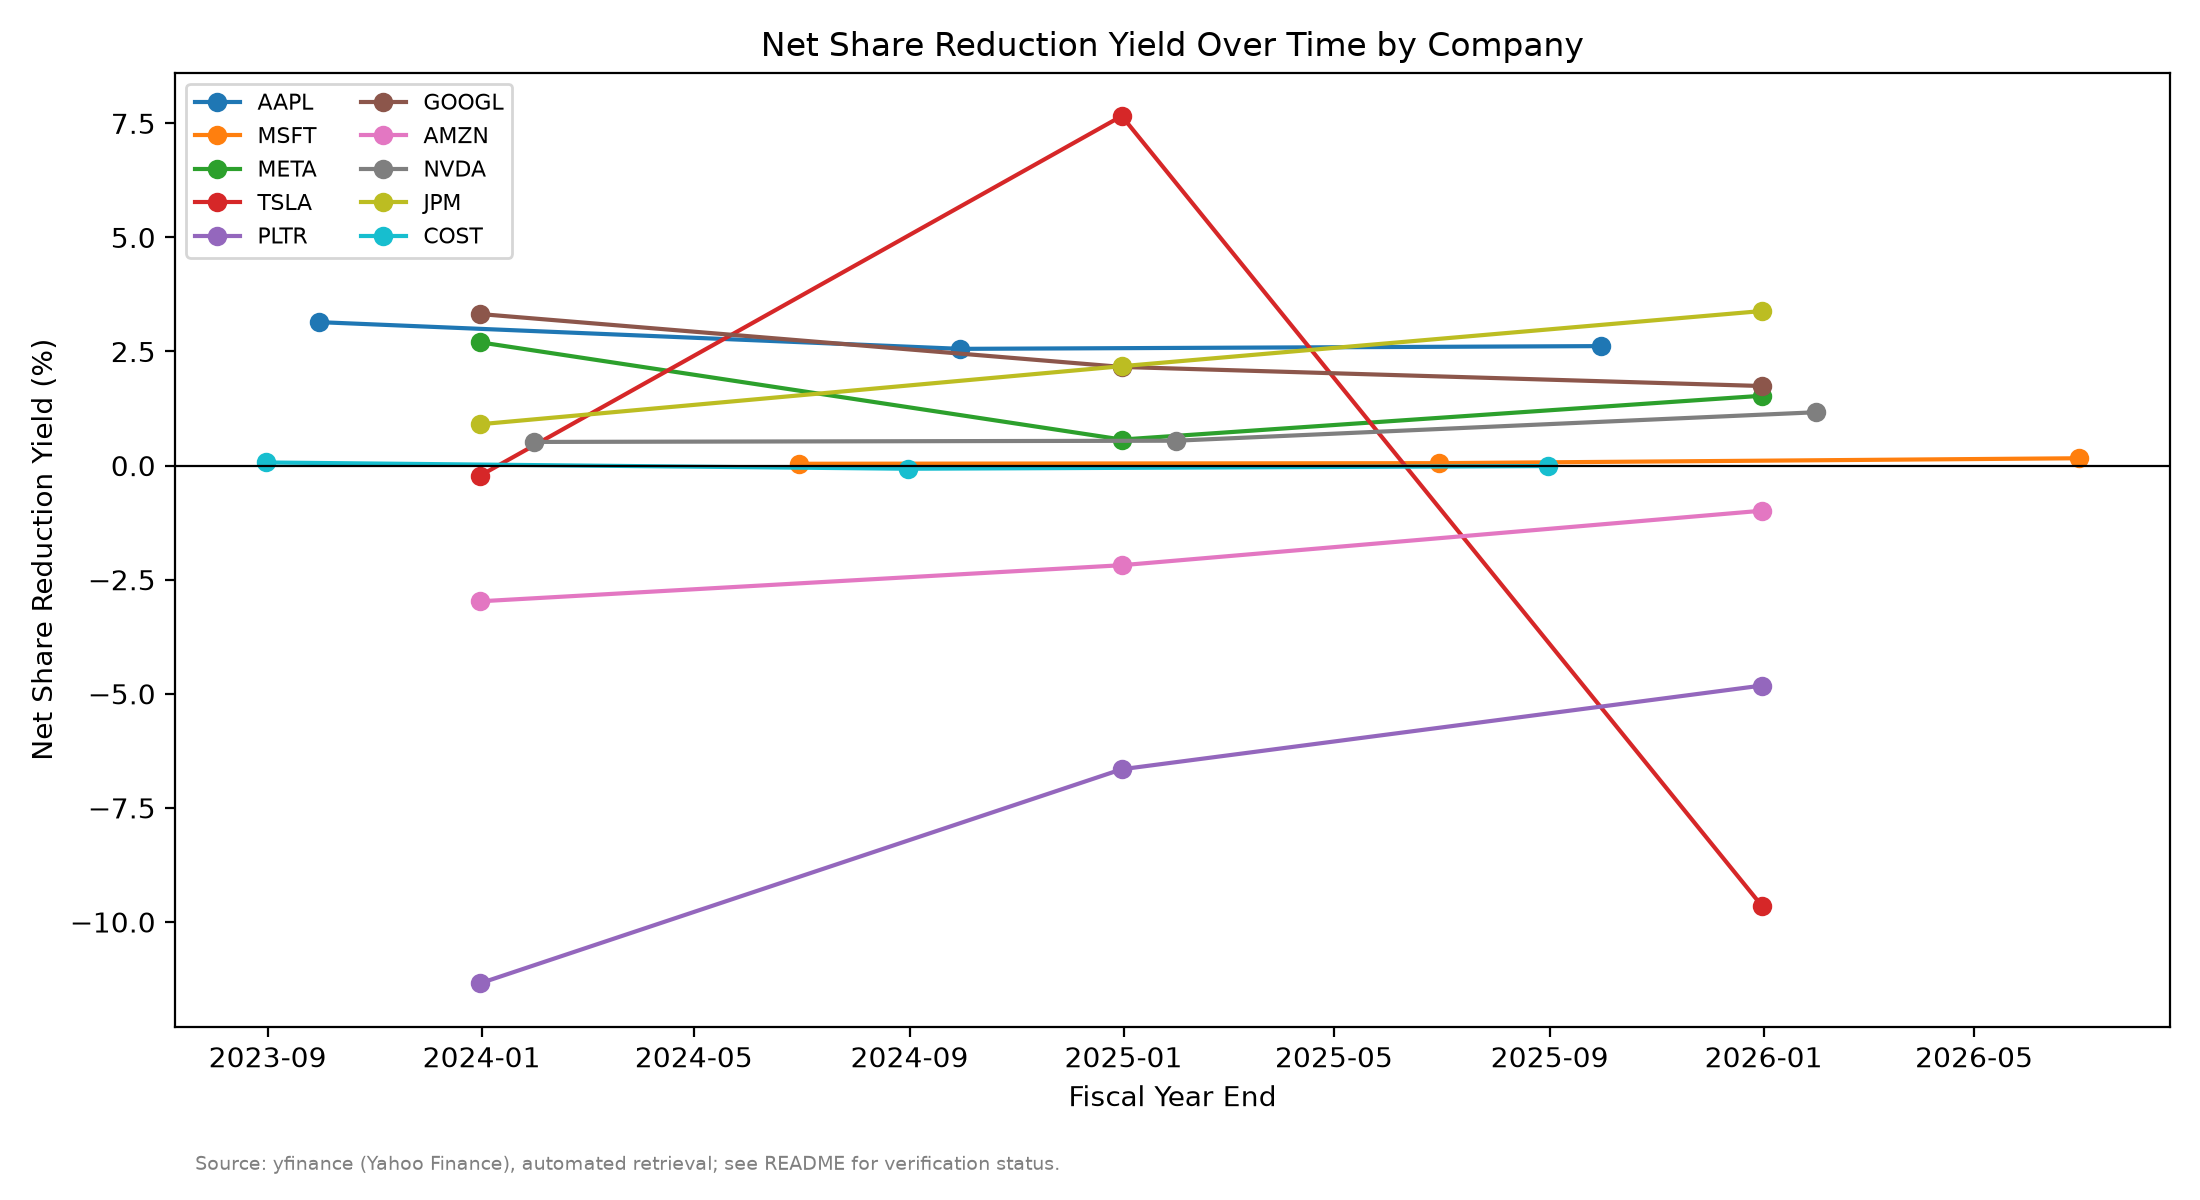
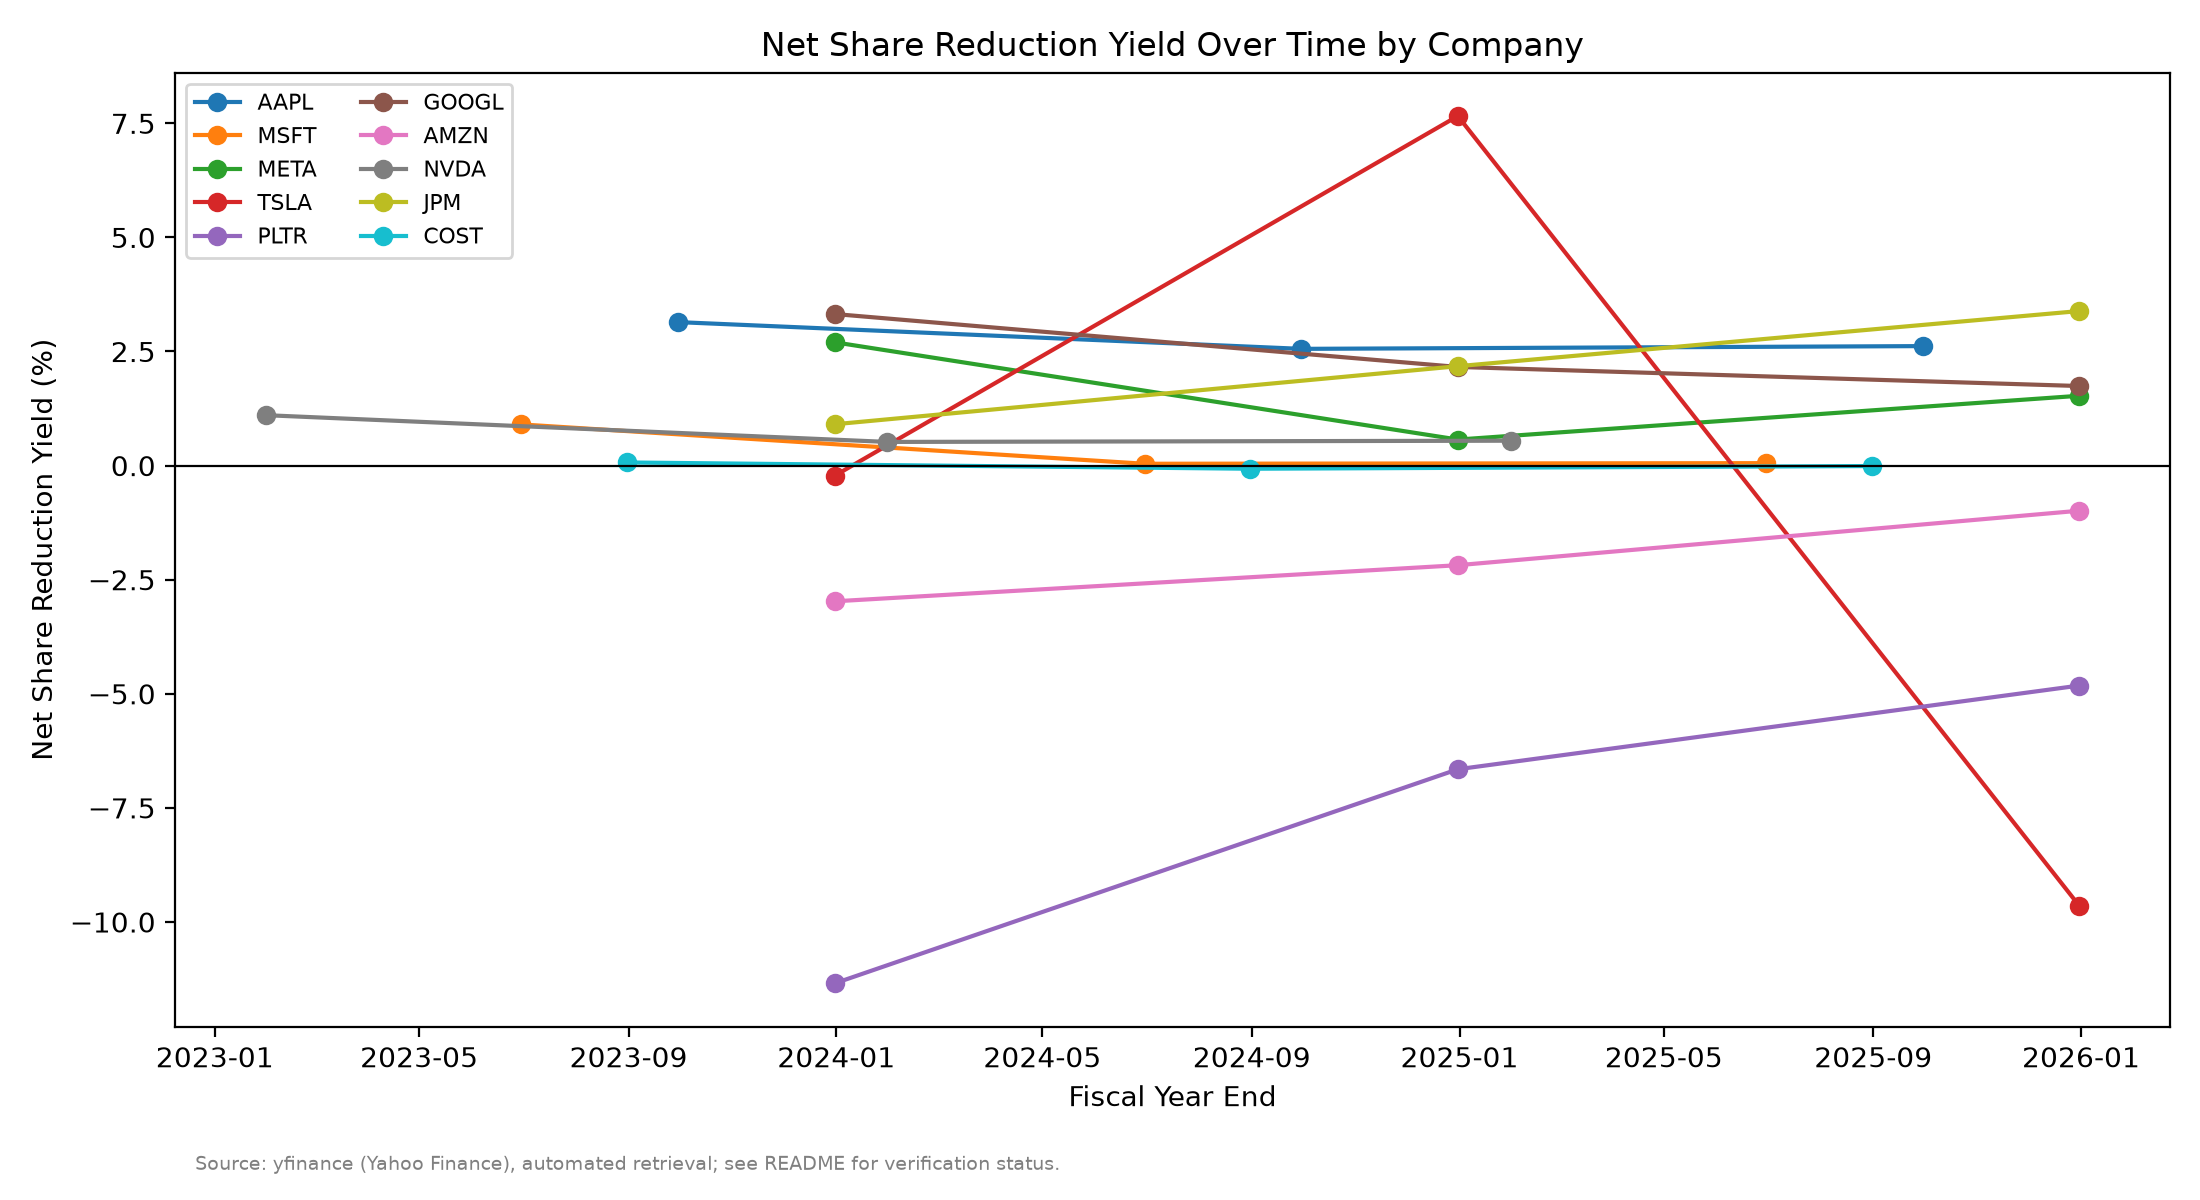
Standardize analysis to FY2022-FY2025 and add SEC fallbacks

diff --git a/buyback_analyzer.py b/buyback_analyzer.py
@@ -92,6 +92,29 @@ MIN_FISCAL_YEARS_REQUIRED = 2
 # Preferred number of fiscal years to analyze (most recent available).
 TARGET_FISCAL_YEARS = 4
 
+# Fiscal years used for the cross-company comparison.
+ANALYSIS_START_YEAR = 2022
+ANALYSIS_END_YEAR = 2025
+
+# Verified historical observations used only when yfinance does not
+# return a required fiscal year. Values come from official SEC filings.
+VERIFIED_FALLBACK_DATA = {
+    "MSFT": {
+        2022: {
+            "fiscal_year_end": "2022-06-30",
+            "diluted_avg_shares": 7_540_000_000,
+            "source": "SEC filing",
+        }
+    },
+    "NVDA": {
+        2022: {
+            "fiscal_year_end": "2022-01-30",
+            "diluted_avg_shares": 25_350_000_000,
+            "source": "SEC filing; FY2022 shares adjusted for 2024 10-for-1 split",
+        }
+    },
+}
+
 # Neutral-zone threshold for classification, in percentage points.
 NEUTRAL_THRESHOLD_PCT = 0.10
 
@@ -300,7 +323,33 @@ def get_company_data(ticker: str, company_name: str) -> CompanyDataset:
             warnings=rec_warnings,
         )
         dataset.records.append(record)
+    # Add verified SEC fallback observations when yfinance does not
+    # provide a required fiscal year.
+    fallback_years = VERIFIED_FALLBACK_DATA.get(ticker, {})
 
+    existing_years = {
+        record.fiscal_year_end.year
+        for record in dataset.records
+        if record.fiscal_year_end is not None
+    }
+
+    for year, fallback in fallback_years.items():
+        if year not in existing_years:
+            dataset.records.append(
+                FiscalYearRecord(
+                    ticker=ticker,
+                    company=company_name,
+                    fiscal_year_end=pd.Timestamp(fallback["fiscal_year_end"]),
+                    diluted_avg_shares=fallback["diluted_avg_shares"],
+                    diluted_shares_field_used="Verified SEC fallback",
+                    basic_avg_shares=None,
+                    repurchase_spend=None,
+                    repurchase_field_used=None,
+                    stock_based_comp=None,
+                    data_source=DataSource.MANUAL_VERIFICATION,
+                    warnings=[fallback["source"]],
+                )
+            )
     return dataset
 
 
@@ -649,6 +698,15 @@ def analyze_company(
             insufficient_data=True,
         )
 
+    # Use the same fiscal-year window for every company so cross-company
+    # comparisons cover the same four fiscal years.
+
+    cleaned = cleaned[
+    cleaned["fiscal_year_end"].dt.year.between(
+        ANALYSIS_START_YEAR, ANALYSIS_END_YEAR
+    )
+].copy()
+    
     usable = cleaned.dropna(subset=["diluted_avg_shares"]).reset_index(drop=True)
 
     year_rows = []
@@ -1191,9 +1249,9 @@ def main() -> None:
         print("\nAll companies produced usable data.")
 
     print(
-        "\nReminder: figures above come from automated yfinance retrieval "
-        "and are NOT yet verified against SEC filings. See README.md for "
-        "the verification workflow before citing these numbers as final."
+        "\nReminder: most figures above come from automated yfinance retrieval and remain unverified. "
+"Verified SEC fallback observations are explicitly labeled in the raw data. "
+"See README.md for the verification workflow before citing results as final."
     )
 
 
